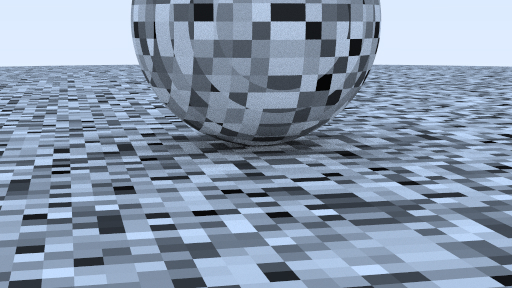
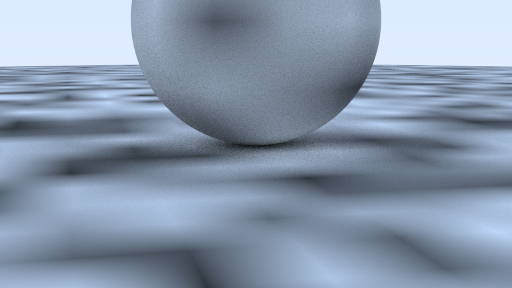
Perlin Noise 2

diff --git a/ray-tracing-the-next-week/include/perlin.h b/ray-tracing-the-next-week/include/perlin.h
@@ -29,11 +29,23 @@ public:
 
     double noise(const point3 &p) const
     {
-        auto i = static_cast<int>(4 * p.x()) & 255;
-        auto j = static_cast<int>(4 * p.y()) & 255;
-        auto k = static_cast<int>(4 * p.z()) & 255;
+        auto u = p.x() - floor(p.x());
+        auto v = p.y() - floor(p.y());
+        auto w = p.z() - floor(p.z());
 
-        return ranfloat[perm_x[i] ^ perm_y[j] ^ perm_z[k]];
+        auto i = static_cast<int>(floor(p.x()));
+        auto j = static_cast<int>(floor(p.y()));
+        auto k = static_cast<int>(floor(p.z()));
+        double c[2][2][2];
+
+        for (int di = 0; di < 2; di++)
+            for (int dj = 0; dj < 2; dj++)
+                for (int dk = 0; dk < 2; dk++)
+                    c[di][dj][dk] = ranfloat[perm_x[(i + di) & 255] ^
+                                             perm_y[(j + dj) & 255] ^
+                                             perm_z[(k + dk) & 255]];
+
+        return trilinear_interp(c, u, v, w);
     }
 
 private:
@@ -64,6 +76,19 @@ private:
             p[i] = p[target];
             p[target] = tmp;
         }
+    }
+
+    static double trilinear_interp(double c[2][2][2], double u, double v, double w)
+    {
+        auto accum = 0.0;
+        for (int i = 0; i < 2; i++)
+            for (int j = 0; j < 2; j++)
+                for (int k = 0; k < 2; k++)
+                    accum += (i * u + (1 - i) * (1 - u)) *
+                             (j * v + (1 - j) * (1 - v)) *
+                             (k * w + (1 - k) * (1 - w)) * c[i][j][k];
+
+        return accum;
     }
 };
 
